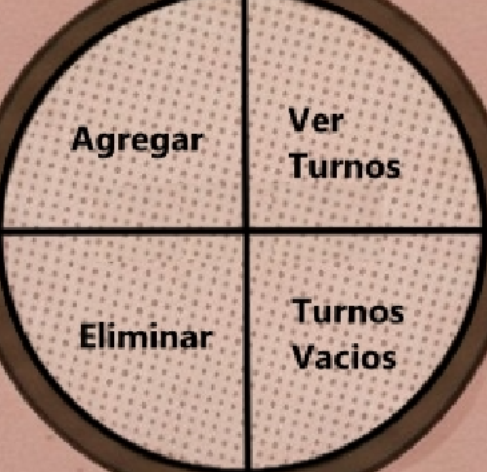
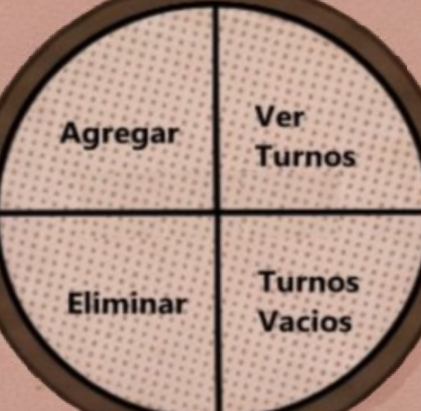
ParteVisual1.4
mejora de las vistas y botones

diff --git a/TrabajoFinalGrupo8/src/Vista/menu.java b/TrabajoFinalGrupo8/src/Vista/menu.java
@@ -218,8 +218,8 @@ public class menu extends javax.swing.JFrame {
     private JButton botonCerrarTurnos;
 
     // paneles
-    private PanelConFondo VistaTurnos = new PanelConFondo("/Vista/Disenio/turnodos.jpg");
-    private PanelConFondo VistaConfiguracion = new PanelConFondo("/Vista/Disenio/Configuracion.jpg");
+    private PanelConFondo VistaTurnos = new PanelConFondo("/Vista/Disenio/uno.png");
+    private PanelConFondo VistaConfiguracion = new PanelConFondo("/Vista/Disenio/dos.png");
     
     //botones dentro de paneles
     //turnos
@@ -346,15 +346,15 @@ public class menu extends javax.swing.JFrame {
         
         //turno
         
-        agregar = crearBotonInvisible(110, 0, 110, 110, this::agregar , "agregar");
-        verturnos = crearBotonInvisible(110, 110, 110,110, this::agregar , "agregar");
-        eliminar = crearBotonInvisible(0, 110, 110, 110, this::agregar , "agregar");
-        turnosVacios = crearBotonInvisible(0, 0, 110, 110, this::agregar , "agregar");
+        agregar = crearBotonInvisible(120, 0, 110, 110, this::agregar , "agregar");
+        verturnos = crearBotonInvisible(120, 110, 110,110, this::agregar , "agregar");
+        eliminar = crearBotonInvisible(0, 110, 117, 110, this::agregar , "agregar");
+        turnosVacios = crearBotonInvisible(0, 0, 117, 110, this::agregar , "agregar");
         
         //configuracion
-        tratamientos = crearBotonInvisible(110, 0, 110, 110, this::agregar , "agregar");
-        instalaciones = crearBotonInvisible(110, 110, 110,110, this::agregar , "agregar");
-        historial = crearBotonInvisible(0, 110, 110, 110, this::agregar , "agregar");
+        tratamientos = crearBotonInvisible(120, 0, 110, 110, this::agregar , "agregar");
+        instalaciones = crearBotonInvisible(120, 110, 117,110, this::agregar , "agregar");
+        historial = crearBotonInvisible(0, 110, 117, 110, this::agregar , "agregar");
         configuracionAvanzada = crearBotonInvisible(0, 0, 110, 110, this::agregar , "agregar");        
         
         
@@ -472,7 +472,7 @@ public class menu extends javax.swing.JFrame {
         }
     }
 
-    // musica
+    // ========= MÚSICA =========
     private void reproducirMusicaFondo() {
         try {
             URL url = getClass().getResource("/Vista/Sonido/cancion.wav");
@@ -485,7 +485,7 @@ public class menu extends javax.swing.JFrame {
             clipMusica.open(audioInput);
             clipMusica.loop(Clip.LOOP_CONTINUOUSLY);
             clipMusica.start();
-            System.out.println(" Música de fondo ");
+            System.out.println("🎵 Música de fondo iniciada...");
         } catch (Exception e) {
             e.printStackTrace();
         }

diff --git a/TrabajoFinalGrupo8/src/Vista/PanelConFondo.java b/TrabajoFinalGrupo8/src/Vista/PanelConFondo.java
@@ -14,11 +14,11 @@ public class PanelConFondo extends JPanel {
             System.err.println("Error al cargar imagen de fondo: " + e.getMessage());
         }
         
-        if(url == "/Vista/Disenio/turnodos.jpg"){
+        if(url == "/Vista/Disenio/uno.png"){
             this.setSize(200, 200);
             this.setBounds(531, 100, 225, 220);
         }
-        if(url == "/Vista/Disenio/Configuracion.jpg"){
+        if(url == "/Vista/Disenio/dos.png"){
             this.setSize(180, 180);
             this.setBounds(826, 100, 225, 220);
         }
